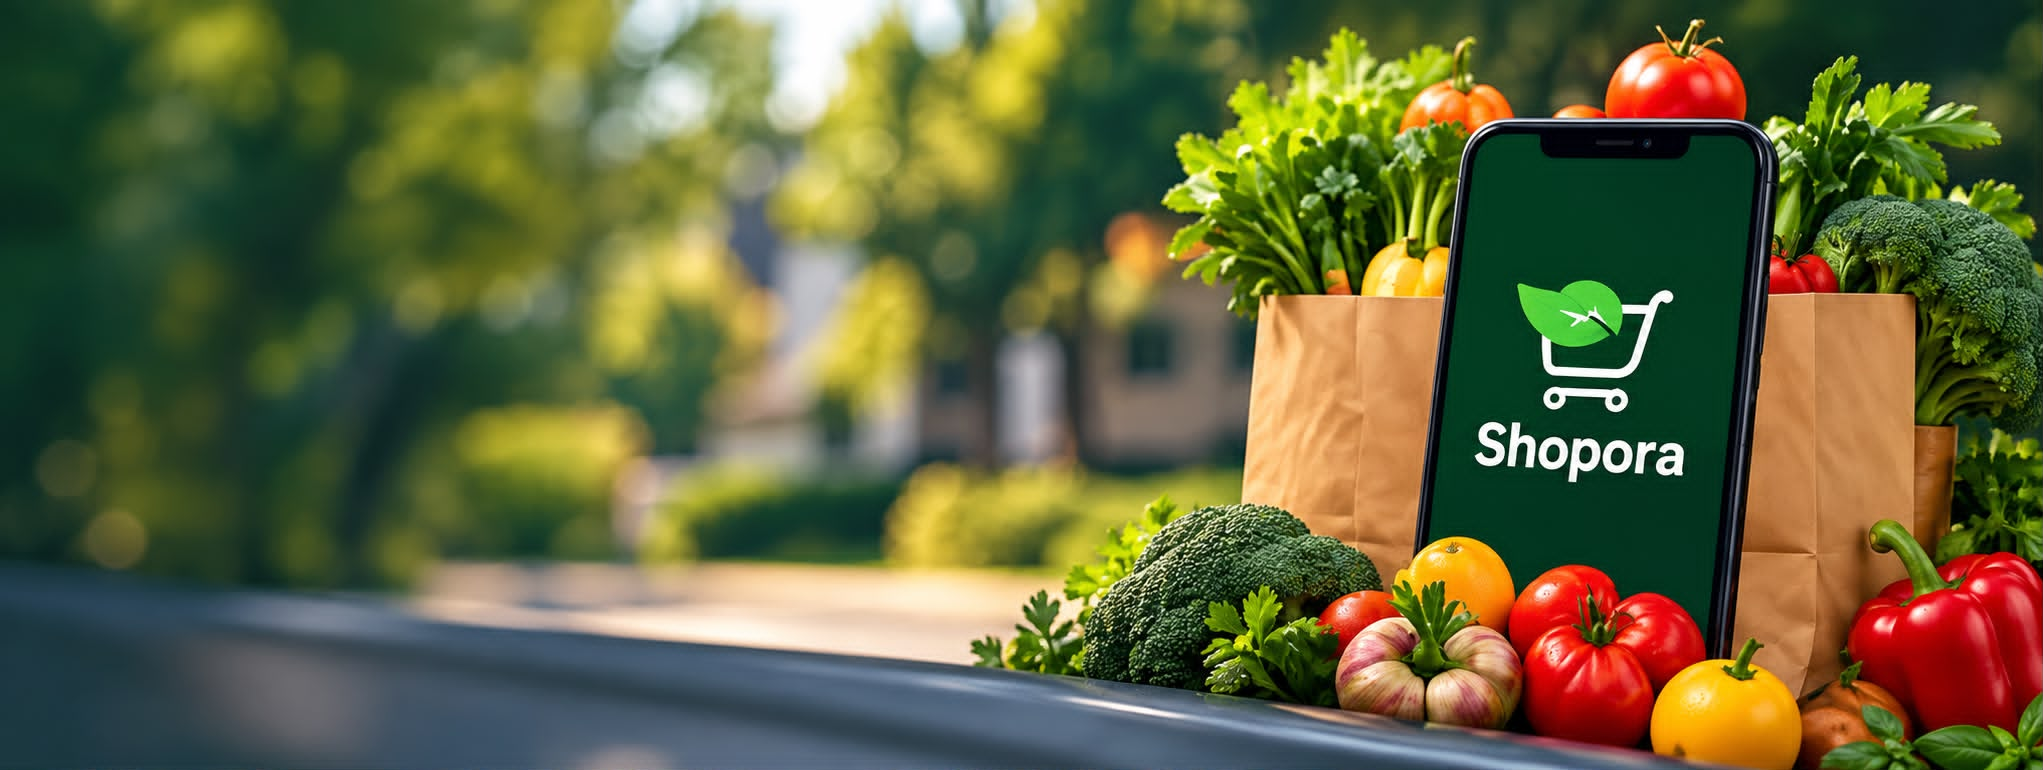
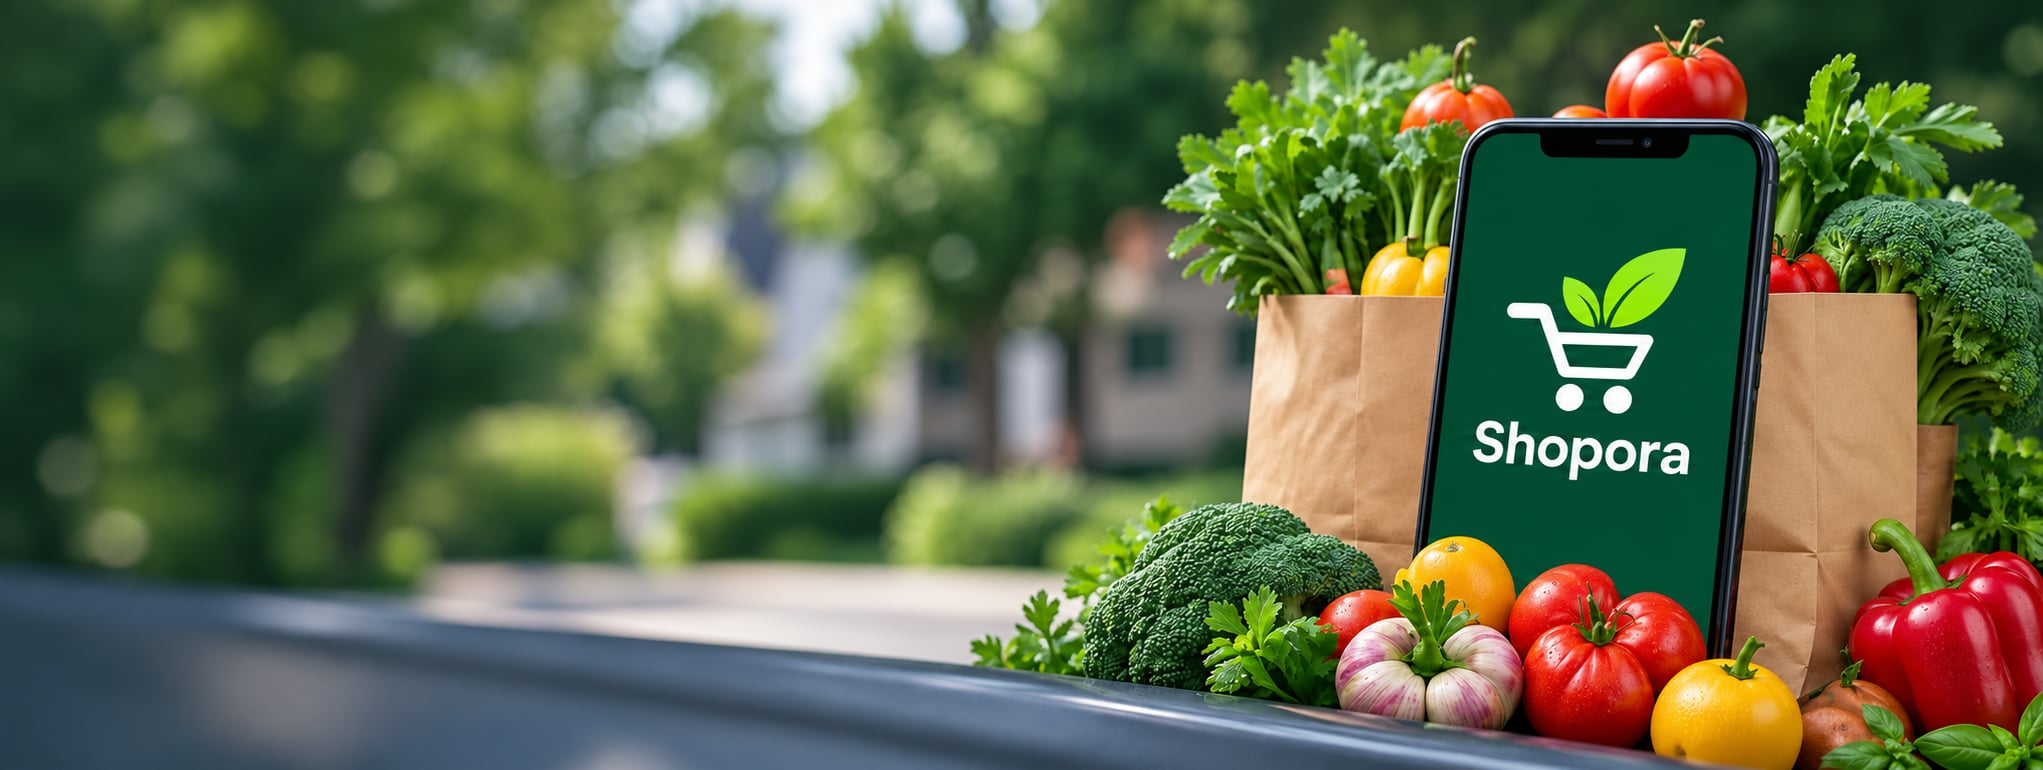
final changes (change Hero photoes)

diff --git a/src/Pages/Track Orders/components/status/OrderStatusTracker.css b/src/Pages/Track Orders/components/status/OrderStatusTracker.css
@@ -8,7 +8,7 @@
   border-radius: 20px;
   padding: 32px 28px;
   max-width: 800px;
-  margin: 20px auto;
+  margin: 0; /* كان 20px auto (12px على الجوال): داخل عمود flex يجعل البطاقة أضيق من بقية البطاقات ومنزاحة */
   box-shadow: 0 4px 20px rgba(20, 92, 74, 0.06);
   font-family: inherit;
 }
@@ -83,6 +83,8 @@
    PROGRESS STEPS
    ============================================ */
 .progress-steps {
+  padding: 0;
+  list-style: none; /* الآن <ol> */
   display: flex;
   justify-content: space-between;
   align-items: center;
@@ -290,15 +292,19 @@
   cursor: pointer;
   transition: all 0.2s ease;
   margin-top: 8px;
+  min-height: 44px;
   box-shadow: 0 6px 20px rgba(20, 92, 74, 0.2);
 }
 
-.btn-invoice:hover,
-.btn-contact:hover {
-  background: var(--dark-green);
-  transform: translateY(-2px);
-  box-shadow: 0 10px 28px rgba(20, 92, 74, 0.3);
+@media (hover: hover) {
+  .btn-invoice:hover,
+  .btn-contact:hover {
+    background: var(--dark-green);
+    transform: translateY(-2px);
+    box-shadow: 0 10px 28px rgba(20, 92, 74, 0.3);
+  }
 }
+
 
 /* ============================================
    WAITING SPINNER
@@ -364,7 +370,7 @@
   .tracker-container {
     padding: 20px 16px;
     border-radius: 16px;
-    margin: 12px;
+    margin: 0;
   }
 
   .tracker-header {
@@ -377,7 +383,7 @@
   }
 
   .status-badge {
-    font-size: 10.5px;
+    font-size: 11px;
     padding: 5px 12px;
   }
 
@@ -397,7 +403,7 @@
   }
 
   .step-label {
-    font-size: 10px;
+    font-size: 11px;
     margin-top: 6px;
     white-space: normal;
     line-height: 1.2;
@@ -463,7 +469,7 @@
   }
 
   .step-label {
-    font-size: 9px;
+    font-size: 11px;
   }
 
   .tracker-content h3 {
@@ -492,4 +498,13 @@
   50% {
     box-shadow: 0 0 0 12px rgba(245, 158, 11, 0.06);
   }
+}
+@media (prefers-reduced-motion: reduce) {
+  .pulse .material-symbols-outlined,
+  .bounce .material-symbols-outlined,
+  .drive .material-symbols-outlined,
+  .confetti .material-symbols-outlined,
+  .step-circle.active.pending-step { animation: none; }
+  .step-circle,
+  .step-line { transition-duration: 0.01ms; }
 }

diff --git a/src/components/invoice/Invoice.css b/src/components/invoice/Invoice.css
@@ -121,3 +121,25 @@
   color: #145c4a; 
   font-weight: bold; 
 }
+/* ═══ جوال: الفاتورة تُعرض كما هي (لا تغيير في DOM الذي يُصدَّر PDF) لكن بحشوات وأعمدة تناسب 320–640px.
+   كانت أعمدة الجدول 50/15/15/20% ثابتة بحشوة 10px، فيُقصّ "GESAMT" ويتداخل "3,49 €/kg" مع السعر ═══ */
+@media (max-width: 40rem) {
+  .invoice-box { padding: 20px 14px 12px; }
+  .brand { font-size: 24px; }
+  .slogan { font-size: 11px; letter-spacing: 0.5px; }
+  .label,
+  .tax-title { font-size: 11px; }
+  .inv-addresses td { padding-right: 10px; }
+  .inv-table th,
+  .inv-table td { padding: 8px 4px; }
+  .inv-table th { font-size: 11px; }
+  .inv-table th:nth-child(1) { width: 36%; }
+  .inv-table th:nth-child(2) { width: 16%; }
+  .inv-table th:nth-child(3) { width: 22%; }
+  .inv-table th:nth-child(4) { width: 26%; }
+  .inv-table th:first-child,
+  .inv-table td:first-child { padding-left: 8px; }
+  .inv-table td.text-right { white-space: nowrap; }
+  .row-deposit td:first-child { padding-left: 16px; }
+  .invoice-footer-row { flex-direction: column; align-items: flex-start; gap: 8px; margin-top: 24px; }
+}

diff --git a/src/Pages/Track Orders/TrackOrder.css b/src/Pages/Track Orders/TrackOrder.css
@@ -4,6 +4,7 @@
 
 .track-order-page {
     min-height: 100vh;
+    min-height: 100dvh; /* 100vh على iOS يشمل شريط المتصفح */
     background: linear-gradient(180deg, #f7faf8 0%, #eff5f1 100%);
     display: flex;
     flex-direction: column;
@@ -58,14 +59,18 @@
     cursor: pointer;
     transition: 0.2s;
     width: fit-content;
+    min-height: 44px;
     box-shadow: 0 2px 8px rgba(20, 92, 74, 0.04);
 }
 
-.track-order-back-btn:hover {
-    background: var(--secondary-color);
-    border-color: var(--primary-color);
-    transform: translateX(-2px);
+@media (hover: hover) {
+  .track-order-back-btn:hover {
+      background: var(--secondary-color);
+      border-color: var(--primary-color);
+      transform: translateX(-2px);
+  }
 }
+
 
 .track-order-back-btn .material-symbols-outlined {
     font-size: 20px;

diff --git a/src/components/invoice/Vorinformation.css b/src/components/invoice/Vorinformation.css
@@ -10,6 +10,7 @@
     border: 1px solid rgba(20, 92, 74, 0.08);
     font-family: "IBM Plex Sans Arabic", -apple-system, sans-serif;
     color: #15312b;
+    width: 100%; /* عنصر شبكة/flex بـ margin:auto وبلا عرض = fit-content = أدنى عرض لمحتواه (406px) فيتجاوز الشاشة 32px على 390px */
     max-width: 680px;
     margin: 0 auto;
 }
